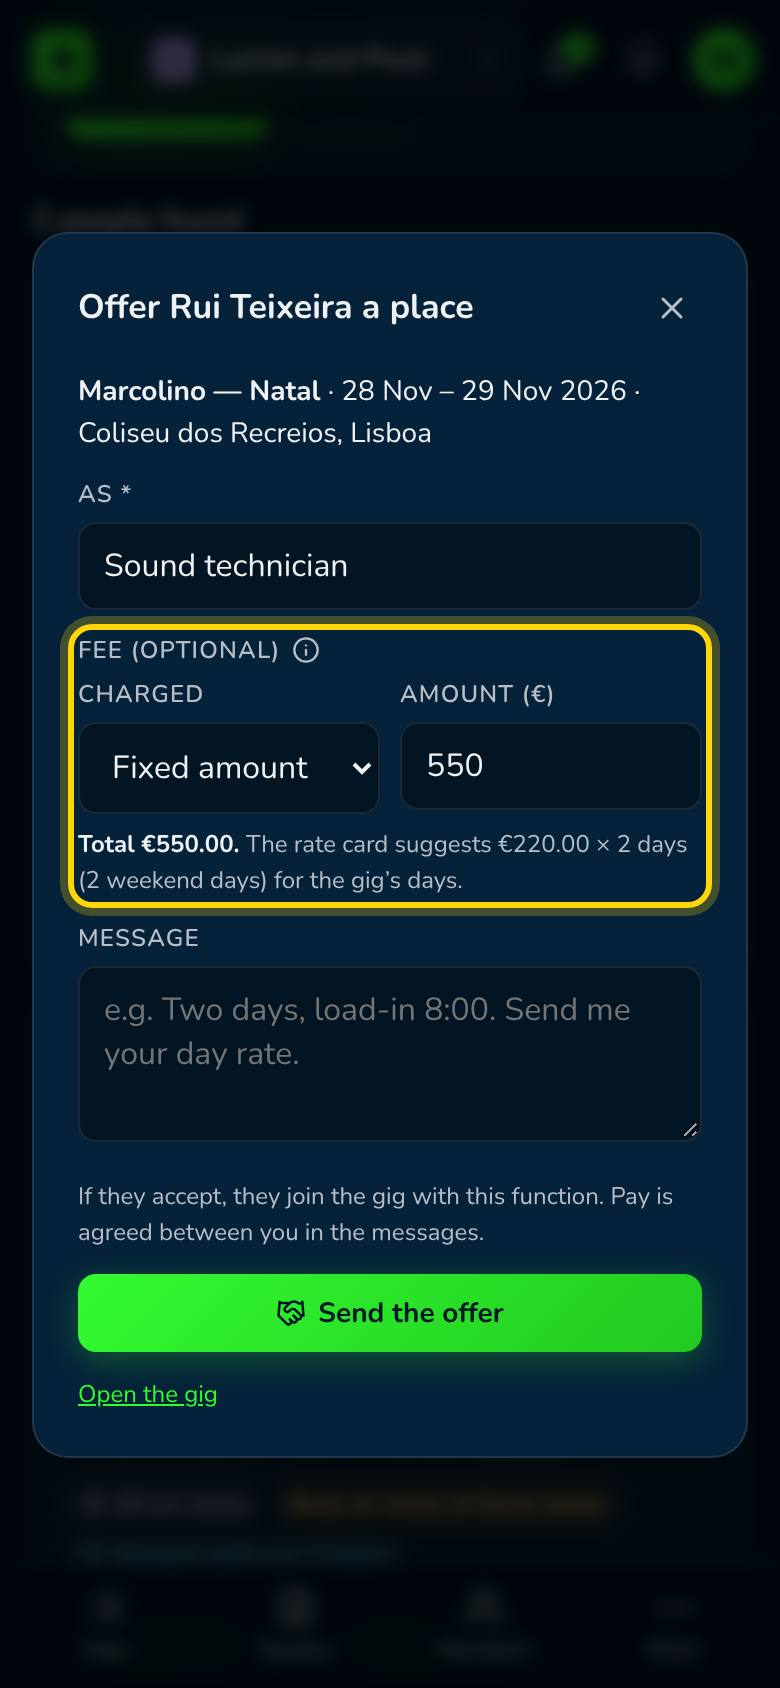
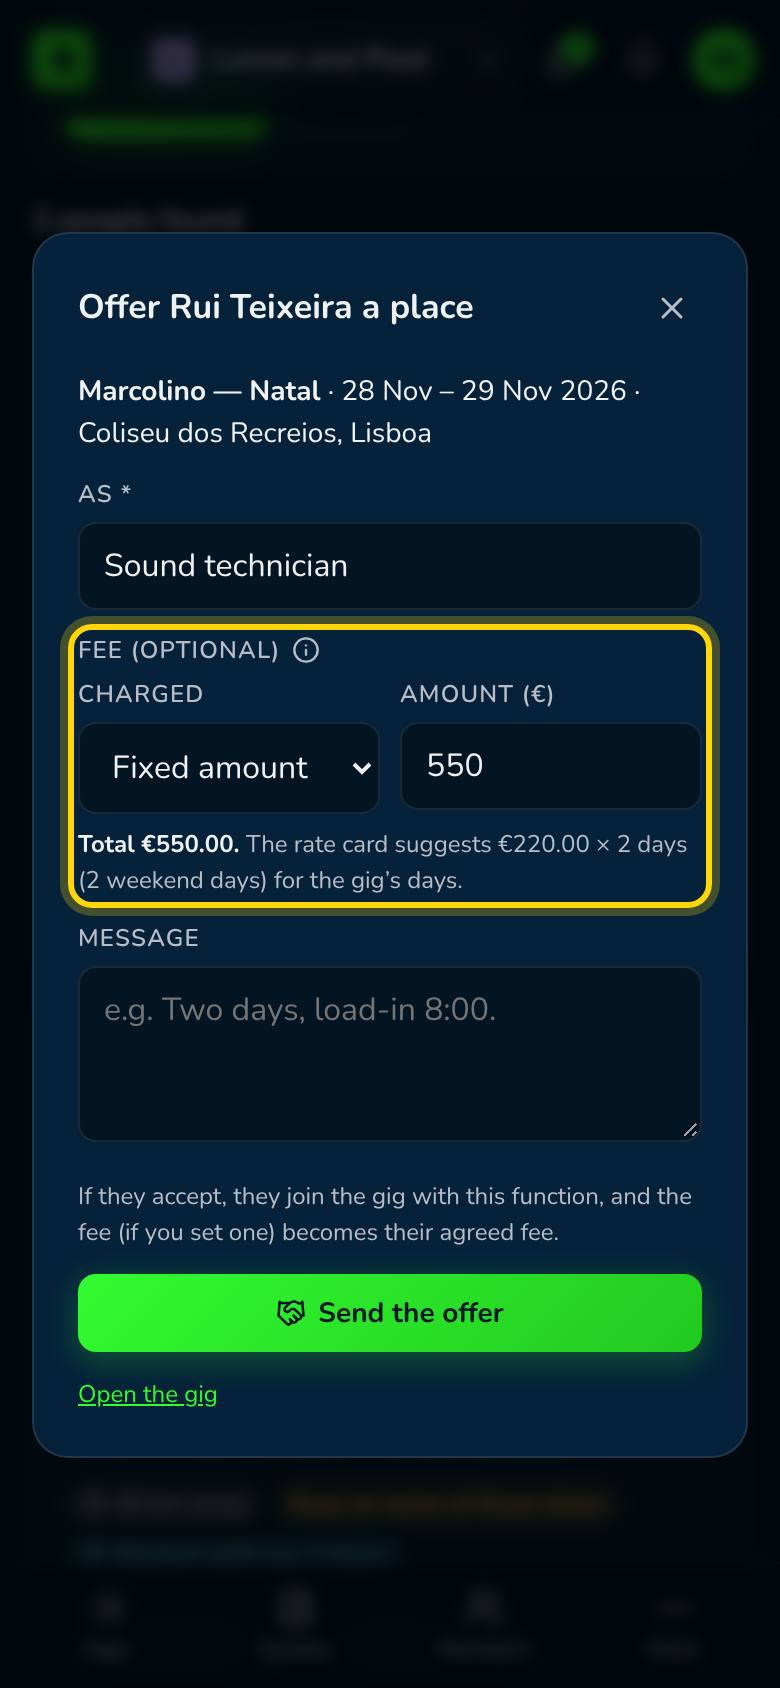
Find crew offer wording matches the fee field (7b) — 0.65.0
Claude-Session: https://claude.ai/code/session_01TrujDH5DW1nkB3MfAf4pLQ

diff --git a/src/help/pt.js b/src/help/pt.js
@@ -432,7 +432,7 @@ export default {
         'Num resultado, toque em "Perguntar se está livre" para confirmar as datas, ou em "Oferecer um lugar" para lhe oferecer o trabalho. A resposta chega às suas mensagens; se aceitar uma oferta, entra no evento.',
       ],
       mistakes: [
-        'Os perfis não têm preços: combine o valor nas mensagens. O e-mail e o telefone só são partilhados quando a pessoa entra no evento.',
+        'Os perfis não têm preços: indique um cachê na oferta ou combine-o nas mensagens. O e-mail e o telefone só são partilhados quando a pessoa entra no evento.',
         'As pesquisas e os primeiros contactos têm um limite diário para evitar abusos. As pessoas com quem já trabalhou continuam fáceis de chamar no formulário de convite do evento.',
         'Procura muitas vezes o mesmo tipo de pessoa? Toque em "Guardar esta pesquisa" e mantenha o alerta ativo: é avisado quando alguém que se ajusta ativa o perfil. As pesquisas guardadas aparecem acima do formulário para toda a organização.',
       ],

diff --git a/src/help/en.js b/src/help/en.js
@@ -435,7 +435,7 @@ export default {
         'On a result, tap "Ask if free" to check their dates, or "Offer a place" to offer them the job. The answer arrives in your messages; if they accept an offer, they join the gig.',
       ],
       mistakes: [
-        'Rates aren\'t on profiles: agree the fee in the messages. Their e-mail and phone are shared only once they join your gig.',
+        'Rates aren\'t on profiles: set a fee in your offer, or agree it in the messages. Their e-mail and phone are shared only once they join your gig.',
         'Searches and first contacts are limited each day to stop misuse. People you\'ve worked with before are always easy to reach from the gig\'s invite form.',
         'Looking for the same kind of person often? Tap "Save this search" and keep its alert on: you\'re told when someone who fits switches on their profile. Saved searches show above the form for everyone in the organisation.',
       ],

diff --git a/src/i18n/pt.js b/src/i18n/pt.js
@@ -2815,9 +2815,9 @@ export default {
   "crewSearch.offerAs": "Como",
   "crewSearch.message": "Mensagem",
   "crewSearch.askPlaceholder": "ex. Montagem às 8:00, dois dias de espetáculo.",
-  "crewSearch.offerPlaceholder": "ex. Dois dias, montagem às 8:00. Envie-me o seu preço por dia.",
+  "crewSearch.offerPlaceholder": "ex. Dois dias, montagem às 8:00.",
   "crewSearch.askHint": "A pessoa responde livre ou não livre. Ainda nada fica marcado.",
-  "crewSearch.offerHint": "Se aceitar, entra no evento com esta função. O pagamento combina-se entre vós nas mensagens.",
+  "crewSearch.offerHint": "Se aceitar, entra no evento com esta função e o cachê (se o indicar) passa a ser o cachê combinado.",
   "crewSearch.sendAsk": "Perguntar",
   "crewSearch.sendOffer": "Enviar a oferta",
   "crewSearch.openGig": "Abrir o evento",

diff --git a/src/i18n/en.js b/src/i18n/en.js
@@ -2816,9 +2816,9 @@ export default {
   "crewSearch.offerAs": "As",
   "crewSearch.message": "Message",
   "crewSearch.askPlaceholder": "e.g. Load-in at 8:00, two show days.",
-  "crewSearch.offerPlaceholder": "e.g. Two days, load-in 8:00. Send me your day rate.",
+  "crewSearch.offerPlaceholder": "e.g. Two days, load-in 8:00.",
   "crewSearch.askHint": "They answer free or not free. Nothing is booked yet.",
-  "crewSearch.offerHint": "If they accept, they join the gig with this function. Pay is agreed between you in the messages.",
+  "crewSearch.offerHint": "If they accept, they join the gig with this function, and the fee (if you set one) becomes their agreed fee.",
   "crewSearch.sendAsk": "Ask",
   "crewSearch.sendOffer": "Send the offer",
   "crewSearch.openGig": "Open the gig",

diff --git a/CHANGELOG.md b/CHANGELOG.md
@@ -13,7 +13,9 @@
   starts from that person's own rate if they have one. On the job board, "Offer the place" now
   opens a small window (instead of the browser's OK / Cancel box) with the fee: the day rate the
   applicant sent for the post's days, else your post's pay. Change it or leave it empty.
-- The crew call's note now gives "black clothes" as an example instead of "fee as usual".
+- The crew call's note now gives "black clothes" as an example instead of "fee as usual". Find
+  crew's offer no longer says pay is agreed in the messages or asks for their day rate, and its
+  help guide mentions setting a fee in the offer.
 - **Job posts** fill in the pay from the rate card when you choose the function (the day rate per
   day, else the hour rate per hour). You can still change it.
 - **Quotes** show, under each crew line, its cost by your rate card and your margin, and the
